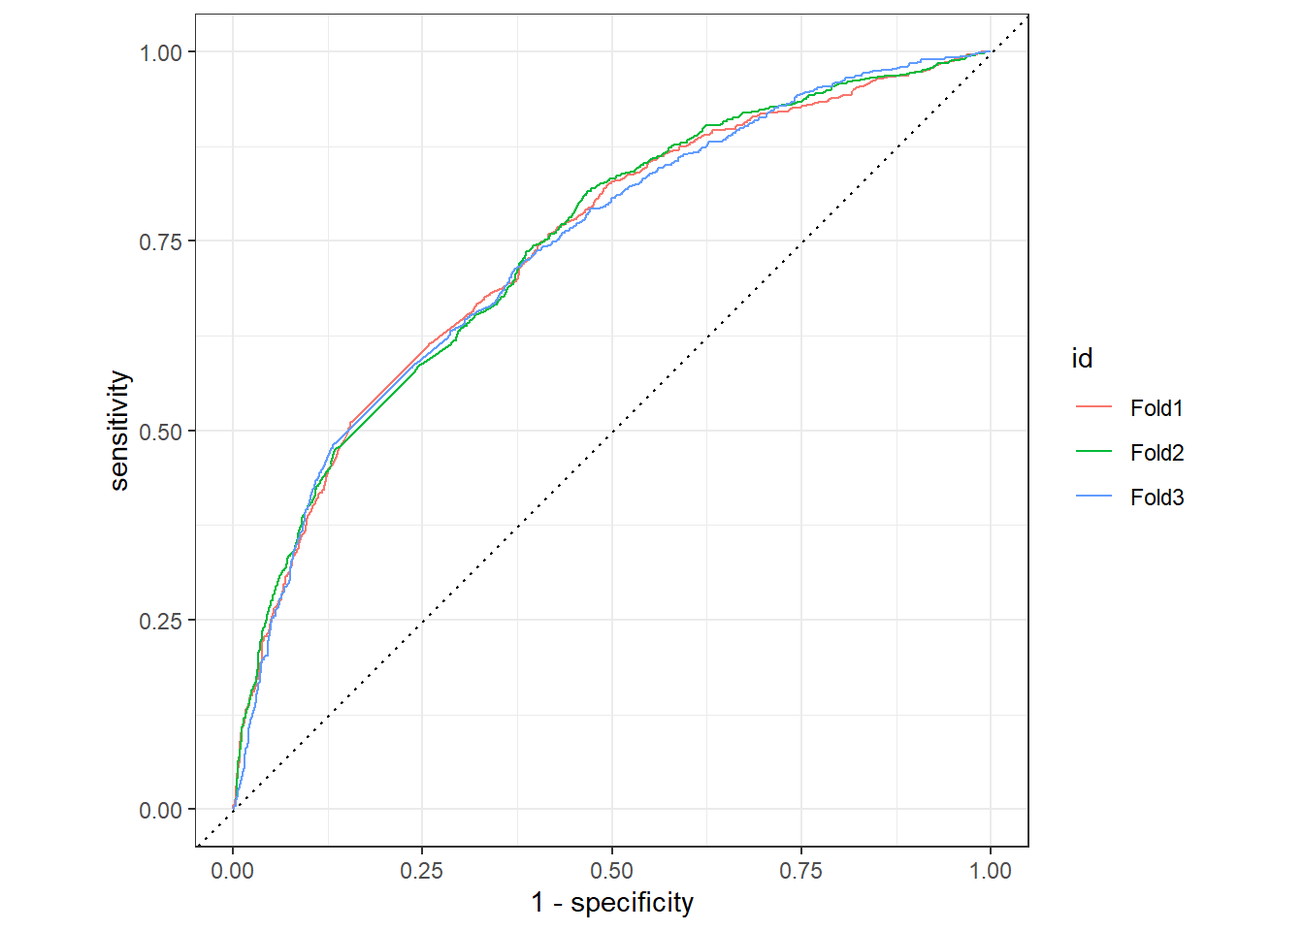
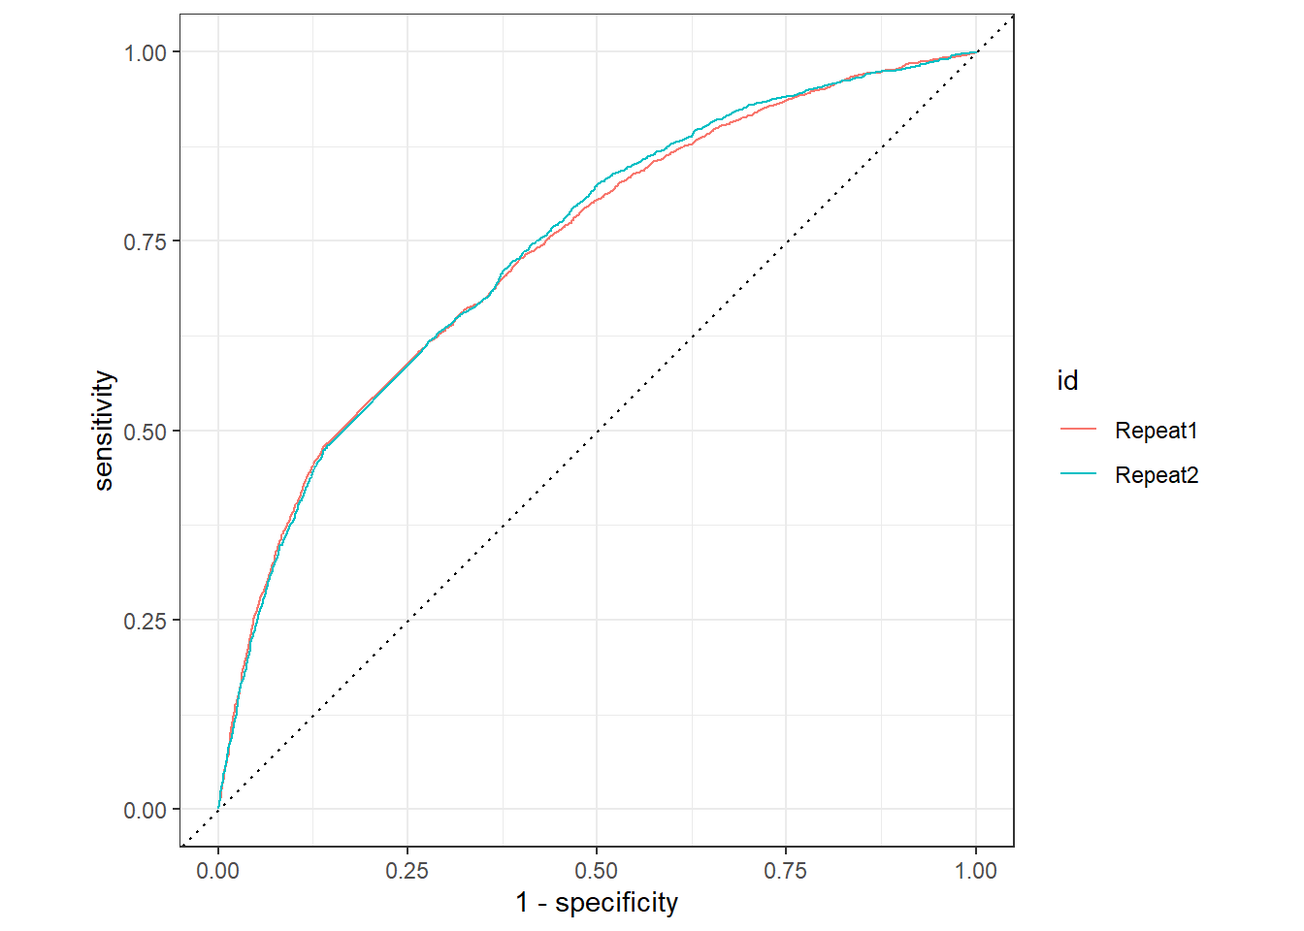
22.44

diff --git a/_site/posts/Text-Mining_Solutions/index.html b/_site/posts/Text-Mining_Solutions/index.html
@@ -231,17 +231,22 @@ div.csl-indent {
 
 
 
-<section id="preliminary-note" class="level1">
-<h1>1. Preliminary Note</h1>
-<p>For this analysis we use the dataset from <span class="citation" data-cites="data/0B5VML_2019">Wiegand (<a href="#ref-data/0B5VML_2019" role="doc-biblioref">2019a</a>)</span> out of the zip archive <span class="citation" data-cites="data/0B5VML/XIUWJ7_2019">Wiegand (<a href="#ref-data/0B5VML/XIUWJ7_2019" role="doc-biblioref">2019b</a>)</span>. The data are licensed according to Attribution 4.0 International (CC-BY-4.0). The used word embeddings are from <span class="citation" data-cites="grave2018learning">Grave et al. (<a href="#ref-grave2018learning" role="doc-biblioref">2018</a>)</span>. The data are licensed according to Attribution-ShareAlike 3.0 Unported (CC-BY-SA 3.0).</p>
-<p>The picture to this post from the welcome page, is from <a href="https://pixabay.com/de/users/talhakhalil007-5671515/?utm_source=link-attribution&amp;utm_medium=referral&amp;utm_campaign=image&amp;utm_content=4271251">talha khalil</a> auf <a href="https://pixabay.com/de//?utm_source=link-attribution&amp;utm_medium=referral&amp;utm_campaign=image&amp;utm_content=4271251">Pixabay</a></p>
+<section id="preliminary-note-definition" class="level1">
+<h1>1. Preliminary Note &amp; Definition</h1>
+<section id="preliminary-note" class="level2">
+<h2 class="anchored" data-anchor-id="preliminary-note">1.1 Preliminary Note</h2>
+<p>For this analysis we use the dataset from <span class="citation" data-cites="data/0B5VML_2019">Wiegand (<a href="#ref-data/0B5VML_2019" role="doc-biblioref">2019a</a>)</span> out of the zip archive <span class="citation" data-cites="data/0B5VML/XIUWJ7_2019">Wiegand (<a href="#ref-data/0B5VML/XIUWJ7_2019" role="doc-biblioref">2019b</a>)</span>. The data are licensed according to Attribution 4.0 International (CC-BY-4.0).</p>
+<p>The picture to this post from the welcome page, is from <a href="https://pixabay.com/de/users/talhakhalil007-5671515/?utm_source=link-attribution&amp;utm_medium=referral&amp;utm_campaign=image&amp;utm_content=4271251">talha khalil</a> at <a href="https://pixabay.com/de//?utm_source=link-attribution&amp;utm_medium=referral&amp;utm_campaign=image&amp;utm_content=4271251">Pixabay</a></p>
 </section>
-<section id="explaination" class="level1">
-<h1>2. Explaination</h1>
-<p>Unfortunately it was not possible to predict in the analysis blogpost. The code worked and the system was ready to predict. But every time I ran the prediction code I got the same error message in the end “Error: cannot allocate vector of size 672.8 Mb”. I tried to minimize the complexity of the code, but after 3 new trials with bad luck, I decided to compute the predictions in this separate blogpost.</p>
+<section id="definition-of-hate-speech" class="level2">
+<h2 class="anchored" data-anchor-id="definition-of-hate-speech">1.2 Definition of Hate Speech</h2>
+<p>The <a href="https://www.un.org/en/hate-speech/understanding-hate-speech/what-is-hate-speech">United Nations</a> defines hate speech as: “<em><strong>any kind of communication</strong> in speech, writing or behaviour, that <strong>attacks</strong> or uses <strong>pejorative</strong> or <strong>discriminatory</strong> language with reference to a person or a group on the basis of <strong>who they are</strong>, in other words, based on their religion, ethnicity, nationality, race, colour, descent, gender or other identity factor.”</em></p>
+<p>The problem about hate speech is, that there is no universal definition that can be used.</p>
+<p>So our research question is, if there is any possibility to predict hate speech by using tweets and how well is the prediction?</p>
+</section>
 </section>
 <section id="load-the-packages" class="level1">
-<h1>3. Load The Packages</h1>
+<h1>2. Load The Packages</h1>
 <div class="cell">
 <div class="sourceCode cell-code" id="cb1"><pre class="sourceCode r code-with-copy"><code class="sourceCode r"><span id="cb1-1"><a href="#cb1-1" aria-hidden="true" tabindex="-1"></a><span class="fu">library</span>(tidyverse)</span>
 <span id="cb1-2"><a href="#cb1-2" aria-hidden="true" tabindex="-1"></a><span class="fu">library</span>(rio)</span>
@@ -258,9 +263,9 @@ div.csl-indent {
 </div>
 </section>
 <section id="load-dataset-and-minor-changes" class="level1">
-<h1>4. Load Dataset And Minor Changes</h1>
+<h1>3. Load Dataset And Minor Changes</h1>
 <section id="train-dataset" class="level2">
-<h2 class="anchored" data-anchor-id="train-dataset">4.1 Train Dataset</h2>
+<h2 class="anchored" data-anchor-id="train-dataset">3.1 Train Dataset</h2>
 <div class="cell">
 <div class="sourceCode cell-code" id="cb2"><pre class="sourceCode r code-with-copy"><code class="sourceCode r"><span id="cb2-1"><a href="#cb2-1" aria-hidden="true" tabindex="-1"></a>d_train <span class="ot">&lt;-</span> <span class="fu">read_tsv</span>(<span class="st">"C:/Users/sapi-/OneDrive/Studium/5. Semester/Data Science II/Data_Science_Blog/daten/germeval2018.training.txt"</span>, <span class="at">col_names =</span> <span class="cn">FALSE</span>)</span></code><button title="Copy to Clipboard" class="code-copy-button"><i class="bi"></i></button></pre></div>
 </div>
@@ -280,7 +285,7 @@ div.csl-indent {
 </section>
 </section>
 <section id="test-dataset" class="level2">
-<h2 class="anchored" data-anchor-id="test-dataset">4.2 Test Dataset</h2>
+<h2 class="anchored" data-anchor-id="test-dataset">3.2 Test Dataset</h2>
 <div class="cell">
 <div class="sourceCode cell-code" id="cb5"><pre class="sourceCode r code-with-copy"><code class="sourceCode r"><span id="cb5-1"><a href="#cb5-1" aria-hidden="true" tabindex="-1"></a>d_test <span class="ot">&lt;-</span> <span class="fu">read_tsv</span>(<span class="st">"C:/Users/sapi-/OneDrive/Studium/5. Semester/Data Science II/Data_Science_Blog/daten/germeval2018.test.txt"</span>, <span class="at">col_names =</span> <span class="cn">FALSE</span>)</span></code><button title="Copy to Clipboard" class="code-copy-button"><i class="bi"></i></button></pre></div>
 </div>
@@ -301,7 +306,7 @@ div.csl-indent {
 </section>
 </section>
 <section id="insert-the-predefined-list" class="level1">
-<h1>5. Insert The Predefined List</h1>
+<h1>4. Insert The Predefined List</h1>
 <div class="cell">
 <div class="sourceCode cell-code" id="cb8"><pre class="sourceCode r code-with-copy"><code class="sourceCode r"><span id="cb8-1"><a href="#cb8-1" aria-hidden="true" tabindex="-1"></a>out_file_model <span class="ot">&lt;-</span> <span class="st">"C:/Users/sapi-/OneDrive - Hochschule für Angewandte Wissenschaften Ansbach/Desktop/AWM/angewandte Wirtschats- und Medienpsychologie/5. Semester/Word_Embedding/de.300.bin"</span></span></code><button title="Copy to Clipboard" class="code-copy-button"><i class="bi"></i></button></pre></div>
 </div>
@@ -343,7 +348,7 @@ div.csl-indent {
 </div>
 </section>
 <section id="insert-the-helperfunctions" class="level1">
-<h1>6. Insert The Helperfunctions</h1>
+<h1>5. Insert The Helperfunctions</h1>
 <p>We are using the package <a href="https://github.com/sebastiansauer/pradadata">pradadata</a> by <span class="citation" data-cites="sebastian_sauer_2018_1996614">Sauer (<a href="#ref-sebastian_sauer_2018_1996614" role="doc-biblioref">2018</a>)</span>. The data are licensed according to General Public License 3 (GLP-3).</p>
 <div class="cell">
 <div class="sourceCode cell-code" id="cb19"><pre class="sourceCode r code-with-copy"><code class="sourceCode r"><span id="cb19-1"><a href="#cb19-1" aria-hidden="true" tabindex="-1"></a><span class="fu">data</span>(<span class="st">"schimpwoerter"</span>, <span class="at">package =</span> <span class="st">"pradadata"</span>)</span>
@@ -353,7 +358,7 @@ div.csl-indent {
 </div>
 </section>
 <section id="define-recipe---rec4---tf-idf" class="level1">
-<h1>7. Define Recipe - rec4 - TF-IDF</h1>
+<h1>6. Define Recipe - rec4 - TF-IDF</h1>
 <div class="cell">
 <div class="sourceCode cell-code" id="cb20"><pre class="sourceCode r code-with-copy"><code class="sourceCode r"><span id="cb20-1"><a href="#cb20-1" aria-hidden="true" tabindex="-1"></a>rec4 <span class="ot">&lt;-</span></span>
 <span id="cb20-2"><a href="#cb20-2" aria-hidden="true" tabindex="-1"></a><span class="fu">recipe</span>(c1 <span class="sc">~</span>., <span class="at">data =</span> <span class="fu">select</span>(d_train, text, c1, id)) <span class="sc">%&gt;%</span></span>
@@ -376,21 +381,22 @@ div.csl-indent {
 </div>
 </section>
 <section id="build-resamples" class="level1">
-<h1>8. Build Resamples</h1>
+<h1>7. Build Resamples</h1>
 <div class="cell">
 <div class="sourceCode cell-code" id="cb22"><pre class="sourceCode r code-with-copy"><code class="sourceCode r"><span id="cb22-1"><a href="#cb22-1" aria-hidden="true" tabindex="-1"></a>folds <span class="ot">&lt;-</span> <span class="fu">vfold_cv</span>(<span class="at">data =</span> d_train,</span>
 <span id="cb22-2"><a href="#cb22-2" aria-hidden="true" tabindex="-1"></a><span class="at">v =</span> <span class="dv">3</span>,</span>
-<span id="cb22-3"><a href="#cb22-3" aria-hidden="true" tabindex="-1"></a><span class="at">repeats =</span> <span class="dv">1</span>,</span>
+<span id="cb22-3"><a href="#cb22-3" aria-hidden="true" tabindex="-1"></a><span class="at">repeats =</span> <span class="dv">2</span>,</span>
 <span id="cb22-4"><a href="#cb22-4" aria-hidden="true" tabindex="-1"></a><span class="at">strata =</span> c1)</span></code><button title="Copy to Clipboard" class="code-copy-button"><i class="bi"></i></button></pre></div>
 </div>
 </section>
 <section id="build-the-penalty-grid" class="level1">
-<h1>9. Build the Penalty-Grid</h1>
+<h1>8. Build the Penalty-Grid</h1>
 <div class="cell">
-<div class="sourceCode cell-code" id="cb23"><pre class="sourceCode r code-with-copy"><code class="sourceCode r"><span id="cb23-1"><a href="#cb23-1" aria-hidden="true" tabindex="-1"></a>lambda_grid <span class="ot">&lt;-</span> <span class="fu">grid_regular</span>(<span class="fu">penalty</span>(), <span class="at">levels =</span> <span class="dv">20</span>)</span></code><button title="Copy to Clipboard" class="code-copy-button"><i class="bi"></i></button></pre></div>
+<div class="sourceCode cell-code" id="cb23"><pre class="sourceCode r code-with-copy"><code class="sourceCode r"><span id="cb23-1"><a href="#cb23-1" aria-hidden="true" tabindex="-1"></a>lambda_grid <span class="ot">&lt;-</span> <span class="fu">grid_regular</span>(<span class="fu">penalty</span>(), <span class="at">levels =</span> <span class="dv">25</span>)</span></code><button title="Copy to Clipboard" class="code-copy-button"><i class="bi"></i></button></pre></div>
 </div>
-<section id="lasso-l1-with-tf-idf" class="level2">
-<h2 class="anchored" data-anchor-id="lasso-l1-with-tf-idf">10. Lasso-L1 With TF-IDF</h2>
+</section>
+<section id="lasso-l1-with-tf-idf" class="level1">
+<h1>9. Lasso-L1 With TF-IDF</h1>
 <section id="l1-model" class="level3">
 <h3 class="anchored" data-anchor-id="l1-model">L1-Model</h3>
 <div class="cell">
@@ -474,7 +480,7 @@ Computational engine: glmnet </code></pre>
 </div>
 <div class="sourceCode cell-code" id="cb34"><pre class="sourceCode r code-with-copy"><code class="sourceCode r"><span id="cb34-1"><a href="#cb34-1" aria-hidden="true" tabindex="-1"></a><span class="fu">toc</span>()</span></code><button title="Copy to Clipboard" class="code-copy-button"><i class="bi"></i></button></pre></div>
 <div class="cell-output cell-output-stdout">
-<pre><code>392.08 sec elapsed</code></pre>
+<pre><code>923.91 sec elapsed</code></pre>
 </div>
 </div>
 </section>
@@ -484,20 +490,20 @@ Computational engine: glmnet </code></pre>
 <div class="sourceCode cell-code" id="cb36"><pre class="sourceCode r code-with-copy"><code class="sourceCode r"><span id="cb36-1"><a href="#cb36-1" aria-hidden="true" tabindex="-1"></a>l1_86_wf_performance <span class="ot">&lt;-</span> <span class="fu">collect_metrics</span>(l1_86_wf_fit)</span>
 <span id="cb36-2"><a href="#cb36-2" aria-hidden="true" tabindex="-1"></a>l1_86_wf_performance</span></code><button title="Copy to Clipboard" class="code-copy-button"><i class="bi"></i></button></pre></div>
 <div class="cell-output cell-output-stdout">
-<pre><code># A tibble: 40 x 7
+<pre><code># A tibble: 50 x 7
     penalty .metric  .estimator  mean     n std_err .config              
       &lt;dbl&gt; &lt;chr&gt;    &lt;chr&gt;      &lt;dbl&gt; &lt;int&gt;   &lt;dbl&gt; &lt;chr&gt;                
- 1 1   e-10 accuracy binary     0.742     3 0.00273 Preprocessor1_Model01
- 2 1   e-10 roc_auc  binary     0.774     3 0.00355 Preprocessor1_Model01
- 3 3.36e-10 accuracy binary     0.742     3 0.00273 Preprocessor1_Model02
- 4 3.36e-10 roc_auc  binary     0.774     3 0.00355 Preprocessor1_Model02
- 5 1.13e- 9 accuracy binary     0.742     3 0.00273 Preprocessor1_Model03
- 6 1.13e- 9 roc_auc  binary     0.774     3 0.00355 Preprocessor1_Model03
- 7 3.79e- 9 accuracy binary     0.742     3 0.00273 Preprocessor1_Model04
- 8 3.79e- 9 roc_auc  binary     0.774     3 0.00355 Preprocessor1_Model04
- 9 1.27e- 8 accuracy binary     0.742     3 0.00273 Preprocessor1_Model05
-10 1.27e- 8 roc_auc  binary     0.774     3 0.00355 Preprocessor1_Model05
-# ... with 30 more rows</code></pre>
+ 1 1   e-10 accuracy binary     0.741     6 0.00431 Preprocessor1_Model01
+ 2 1   e-10 roc_auc  binary     0.771     6 0.00622 Preprocessor1_Model01
+ 3 2.61e-10 accuracy binary     0.741     6 0.00431 Preprocessor1_Model02
+ 4 2.61e-10 roc_auc  binary     0.771     6 0.00622 Preprocessor1_Model02
+ 5 6.81e-10 accuracy binary     0.741     6 0.00431 Preprocessor1_Model03
+ 6 6.81e-10 roc_auc  binary     0.771     6 0.00622 Preprocessor1_Model03
+ 7 1.78e- 9 accuracy binary     0.741     6 0.00431 Preprocessor1_Model04
+ 8 1.78e- 9 roc_auc  binary     0.771     6 0.00622 Preprocessor1_Model04
+ 9 4.64e- 9 accuracy binary     0.741     6 0.00431 Preprocessor1_Model05
+10 4.64e- 9 roc_auc  binary     0.771     6 0.00622 Preprocessor1_Model05
+# ... with 40 more rows</code></pre>
 </div>
 </div>
 <div class="cell">
@@ -524,20 +530,128 @@ Computational engine: glmnet </code></pre>
 <pre><code># A tibble: 1 x 9
   penalty .metric .estimator  mean     n std_err .config            .best .bound
     &lt;dbl&gt; &lt;chr&gt;   &lt;chr&gt;      &lt;dbl&gt; &lt;int&gt;   &lt;dbl&gt; &lt;chr&gt;              &lt;dbl&gt;  &lt;dbl&gt;
-1 0.00785 roc_auc binary     0.787     3 0.00208 Preprocessor1_Mod~ 0.787  0.785</code></pre>
+1 0.00825 roc_auc binary     0.784     6 0.00696 Preprocessor1_Mod~ 0.784  0.777</code></pre>
 </div>
 </div>
-
-
-
 </section>
 </section>
+<section id="predictions" class="level1">
+<h1>10. Predictions</h1>
+<section id="finalize-the-workflow" class="level2">
+<h2 class="anchored" data-anchor-id="finalize-the-workflow">Finalize The Workflow</h2>
+<div class="cell">
+<div class="sourceCode cell-code" id="cb42"><pre class="sourceCode r code-with-copy"><code class="sourceCode r"><span id="cb42-1"><a href="#cb42-1" aria-hidden="true" tabindex="-1"></a>l1_86_wf_final <span class="ot">&lt;-</span> </span>
+<span id="cb42-2"><a href="#cb42-2" aria-hidden="true" tabindex="-1"></a>  l1_86_wf <span class="sc">%&gt;%</span> </span>
+<span id="cb42-3"><a href="#cb42-3" aria-hidden="true" tabindex="-1"></a>  <span class="fu">finalize_workflow</span>(<span class="fu">select_best</span>(l1_86_wf_fit, <span class="at">metric =</span> <span class="st">"roc_auc"</span>))</span></code><button title="Copy to Clipboard" class="code-copy-button"><i class="bi"></i></button></pre></div>
+</div>
+</section>
+<section id="adaptation-of-the-finished-workflow-to-the-training-dataset" class="level2">
+<h2 class="anchored" data-anchor-id="adaptation-of-the-finished-workflow-to-the-training-dataset">Adaptation Of The Finished Workflow To The Training Dataset</h2>
+<div class="cell">
+<div class="sourceCode cell-code" id="cb43"><pre class="sourceCode r code-with-copy"><code class="sourceCode r"><span id="cb43-1"><a href="#cb43-1" aria-hidden="true" tabindex="-1"></a><span class="fu">options</span>(<span class="at">mc.cores =</span> parallel<span class="sc">::</span><span class="fu">detectCores</span>())</span>
+<span id="cb43-2"><a href="#cb43-2" aria-hidden="true" tabindex="-1"></a>fit_train <span class="ot">&lt;-</span> l1_86_wf_final <span class="sc">%&gt;%</span> </span>
+<span id="cb43-3"><a href="#cb43-3" aria-hidden="true" tabindex="-1"></a>  <span class="fu">fit</span>(d_train)</span></code><button title="Copy to Clipboard" class="code-copy-button"><i class="bi"></i></button></pre></div>
+</div>
+</section>
+<section id="adapt-the-predictions-to-the-test-dataset" class="level2">
+<h2 class="anchored" data-anchor-id="adapt-the-predictions-to-the-test-dataset">Adapt The Predictions To The Test Dataset</h2>
+<div class="cell">
+<div class="sourceCode cell-code" id="cb44"><pre class="sourceCode r code-with-copy"><code class="sourceCode r"><span id="cb44-1"><a href="#cb44-1" aria-hidden="true" tabindex="-1"></a>fit_test <span class="ot">&lt;-</span> fit_train <span class="sc">%&gt;%</span> </span>
+<span id="cb44-2"><a href="#cb44-2" aria-hidden="true" tabindex="-1"></a>  <span class="fu">predict</span>(d_test)</span></code><button title="Copy to Clipboard" class="code-copy-button"><i class="bi"></i></button></pre></div>
+</div>
+</section>
+</section>
+<section id="check-the-predictions" class="level1">
+<h1>11. Check The Predictions</h1>
+<section id="add-id-column-2" class="level2">
+<h2 class="anchored" data-anchor-id="add-id-column-2">Add ID Column</h2>
+<div class="cell">
+<div class="sourceCode cell-code" id="cb45"><pre class="sourceCode r code-with-copy"><code class="sourceCode r"><span id="cb45-1"><a href="#cb45-1" aria-hidden="true" tabindex="-1"></a>fit_test <span class="ot">&lt;-</span> fit_test <span class="sc">%&gt;%</span> </span>
+<span id="cb45-2"><a href="#cb45-2" aria-hidden="true" tabindex="-1"></a>  <span class="fu">mutate</span>(<span class="at">id =</span> <span class="fu">row_number</span>())</span></code><button title="Copy to Clipboard" class="code-copy-button"><i class="bi"></i></button></pre></div>
+</div>
+</section>
+<section id="join-both-datasets" class="level2">
+<h2 class="anchored" data-anchor-id="join-both-datasets">Join Both Datasets</h2>
+<div class="cell">
+<div class="sourceCode cell-code" id="cb46"><pre class="sourceCode r code-with-copy"><code class="sourceCode r"><span id="cb46-1"><a href="#cb46-1" aria-hidden="true" tabindex="-1"></a>test <span class="ot">&lt;-</span> fit_test <span class="sc">%&gt;%</span> </span>
+<span id="cb46-2"><a href="#cb46-2" aria-hidden="true" tabindex="-1"></a>  <span class="fu">full_join</span>(d_test, <span class="at">by =</span> <span class="st">"id"</span>)</span></code><button title="Copy to Clipboard" class="code-copy-button"><i class="bi"></i></button></pre></div>
+</div>
+<div class="cell">
+<div class="sourceCode cell-code" id="cb47"><pre class="sourceCode r code-with-copy"><code class="sourceCode r"><span id="cb47-1"><a href="#cb47-1" aria-hidden="true" tabindex="-1"></a>test <span class="ot">&lt;-</span> test<span class="sc">%&gt;%</span> </span>
+<span id="cb47-2"><a href="#cb47-2" aria-hidden="true" tabindex="-1"></a>  <span class="fu">select</span>(id, text, c1, c2, .pred_class)</span></code><button title="Copy to Clipboard" class="code-copy-button"><i class="bi"></i></button></pre></div>
+</div>
+</section>
+<section id="test-the-predictions" class="level2">
+<h2 class="anchored" data-anchor-id="test-the-predictions">Test The Predictions</h2>
+<div class="cell">
+<div class="sourceCode cell-code" id="cb48"><pre class="sourceCode r code-with-copy"><code class="sourceCode r"><span id="cb48-1"><a href="#cb48-1" aria-hidden="true" tabindex="-1"></a>test <span class="sc">%&gt;%</span> </span>
+<span id="cb48-2"><a href="#cb48-2" aria-hidden="true" tabindex="-1"></a>  <span class="fu">count</span>(c1, .pred_class)</span></code><button title="Copy to Clipboard" class="code-copy-button"><i class="bi"></i></button></pre></div>
+<div class="cell-output cell-output-stdout">
+<pre><code># A tibble: 4 x 3
+  c1      .pred_class     n
+  &lt;chr&gt;   &lt;fct&gt;       &lt;int&gt;
+1 OFFENSE OFFENSE       237
+2 OFFENSE OTHER         521
+3 OTHER   OFFENSE       113
+4 OTHER   OTHER        1357</code></pre>
+</div>
+</div>
+<div class="cell">
+<div class="sourceCode cell-code" id="cb50"><pre class="sourceCode r code-with-copy"><code class="sourceCode r"><span id="cb50-1"><a href="#cb50-1" aria-hidden="true" tabindex="-1"></a>test <span class="sc">%&gt;%</span> </span>
+<span id="cb50-2"><a href="#cb50-2" aria-hidden="true" tabindex="-1"></a>  <span class="fu">filter</span>(c1 <span class="sc">!=</span> <span class="st">"OTHER"</span>, .pred_class <span class="sc">!=</span> <span class="st">"OTHER"</span>) <span class="sc">%&gt;%</span> </span>
+<span id="cb50-3"><a href="#cb50-3" aria-hidden="true" tabindex="-1"></a>  <span class="fu">nrow</span>()<span class="sc">/</span><span class="fu">nrow</span>(test)</span></code><button title="Copy to Clipboard" class="code-copy-button"><i class="bi"></i></button></pre></div>
+<div class="cell-output cell-output-stdout">
+<pre><code>[1] 0.1063734</code></pre>
+</div>
+</div>
+<section id="accuracy" class="level3">
+<h3 class="anchored" data-anchor-id="accuracy">Accuracy</h3>
+<div class="cell">
+<div class="sourceCode cell-code" id="cb52"><pre class="sourceCode r code-with-copy"><code class="sourceCode r"><span id="cb52-1"><a href="#cb52-1" aria-hidden="true" tabindex="-1"></a><span class="fu">accuracy</span>(test, <span class="at">truth =</span> <span class="fu">factor</span>(c1), <span class="at">estimate =</span> .pred_class)</span></code><button title="Copy to Clipboard" class="code-copy-button"><i class="bi"></i></button></pre></div>
+<div class="cell-output cell-output-stdout">
+<pre><code># A tibble: 1 x 3
+  .metric  .estimator .estimate
+  &lt;chr&gt;    &lt;chr&gt;          &lt;dbl&gt;
+1 accuracy binary         0.715</code></pre>
+</div>
+</div>
+<div class="cell">
+<div class="sourceCode cell-code" id="cb54"><pre class="sourceCode r code-with-copy"><code class="sourceCode r"><span id="cb54-1"><a href="#cb54-1" aria-hidden="true" tabindex="-1"></a><span class="fu">sens</span>(test, <span class="at">truth =</span> <span class="fu">factor</span>(c1), <span class="at">estimate =</span> .pred_class)</span></code><button title="Copy to Clipboard" class="code-copy-button"><i class="bi"></i></button></pre></div>
+<div class="cell-output cell-output-stdout">
+<pre><code># A tibble: 1 x 3
+  .metric .estimator .estimate
+  &lt;chr&gt;   &lt;chr&gt;          &lt;dbl&gt;
+1 sens    binary         0.313</code></pre>
+</div>
+</div>
+<div class="cell">
+<div class="sourceCode cell-code" id="cb56"><pre class="sourceCode r code-with-copy"><code class="sourceCode r"><span id="cb56-1"><a href="#cb56-1" aria-hidden="true" tabindex="-1"></a><span class="fu">spec</span>(test, <span class="at">truth =</span> <span class="fu">factor</span>(c1), <span class="at">estimate =</span> .pred_class)</span></code><button title="Copy to Clipboard" class="code-copy-button"><i class="bi"></i></button></pre></div>
+<div class="cell-output cell-output-stdout">
+<pre><code># A tibble: 1 x 3
+  .metric .estimator .estimate
+  &lt;chr&gt;   &lt;chr&gt;          &lt;dbl&gt;
+1 spec    binary         0.923</code></pre>
+</div>
+</div>
+</section>
+</section>
+</section>
+<section id="research-question" class="level1">
+<h1>12. Research Question</h1>
+<p>Now we have to clear the research question, it there is any possibility to predict hate speech by using tweets and how well is the prediction?</p>
+<ol type="1">
+<li>Yes, we can predict hate speech!</li>
+<li>This shows us the computed accuracy, which is 71,5 %!
+<ol type="1">
+<li>It also shows us, that we have 92 % specificity. This means the predictions is correct to the already classified data (c1). The specificity is the confirmation security.</li>
+</ol></li>
+</ol>
+
+
+
 </section>
 
 <div id="quarto-appendix" class="default"><section class="quarto-appendix-contents" role="doc-bibliography"><h2 class="anchored quarto-appendix-heading">References</h2><div id="refs" class="references csl-bib-body hanging-indent" role="doc-bibliography">
-<div id="ref-grave2018learning" class="csl-entry" role="doc-biblioentry">
-Grave, Edouard, Piotr Bojanowski, Prakhar Gupta, Armand Joulin, and Tomas Mikolov. 2018. <span>“Learning Word Vectors for 157 Languages.”</span> In <em>Proceedings of the International Conference on Language Resources and Evaluation (LREC 2018)</em>. <a href="https://doi.org/10.48550/arXiv.1802.06893">https://doi.org/10.48550/arXiv.1802.06893</a>.
-</div>
 <div id="ref-sebastian_sauer_2018_1996614" class="csl-entry" role="doc-biblioentry">
 Sauer, Sebastian. 2018. <em>Sebastiansauer/Pradadata: Initial Release</em> (version v1.0). Zenodo. <a href="https://doi.org/10.5281/zenodo.1996614">https://doi.org/10.5281/zenodo.1996614</a>.
 </div>

diff --git a/_site/index.html b/_site/index.html
@@ -171,7 +171,7 @@ ul.task-list li input[type="checkbox"] {
 
 <div class="quarto-listing quarto-listing-container-default" id="listing-listing">
 <div class="list quarto-listing-default">
-<div class="quarto-post image-right" data-index="0" data-categories="code,analysis" data-listing-date-sort="1675119600000" data-listing-file-modified-sort="1675259705884" data-listing-reading-time-sort="1.715">
+<div class="quarto-post image-right" data-index="0" data-categories="code,analysis" data-listing-date-sort="1675119600000" data-listing-file-modified-sort="1675286424942" data-listing-reading-time-sort="3.13">
 <div class="thumbnail">
 <p><a href="./posts/Text-Mining_Solutions/index.html"> <img src="./posts/Text-Mining_Solutions/image_solution.png" class="thumnail-image"> </a></p>
 </div>
@@ -194,7 +194,7 @@ analysis
 </div>
 <a href="./posts/Text-Mining_Solutions/index.html">
 <div class="listing-description">
-For this analysis we use the dataset from <span class="citation" data-cites="data/0B5VML_2019">Wiegand (2019a)</span> out of the zip archive <span class="citation" data-cites="data/0B5VML/XIUWJ7_2019">Wiegand (2019b)</span>. The data are licensed according…<span class="citation" data-cites="grave2018learning"></span>
+For this analysis we use the dataset from <span class="citation" data-cites="data/0B5VML_2019">Wiegand (2019a)</span> out of the zip archive <span class="citation" data-cites="data/0B5VML/XIUWJ7_2019">Wiegand (2019b)</span>. The data are licensed according to Attribution 4.0 International (CC-BY-4.0).
 </div>
 </a>
 </div>
